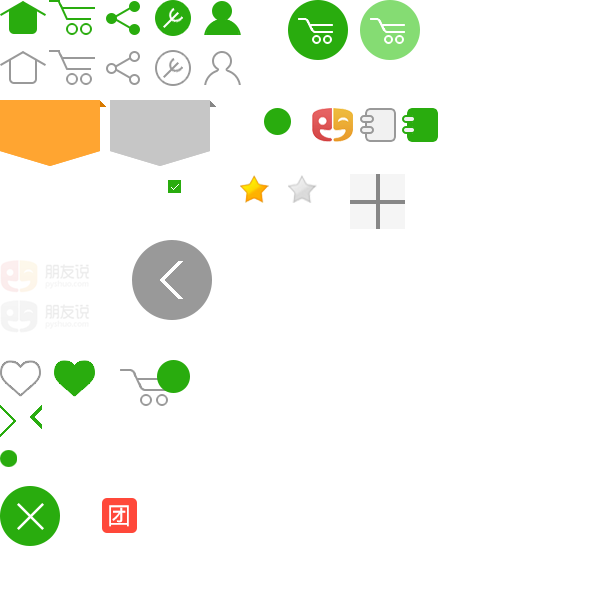
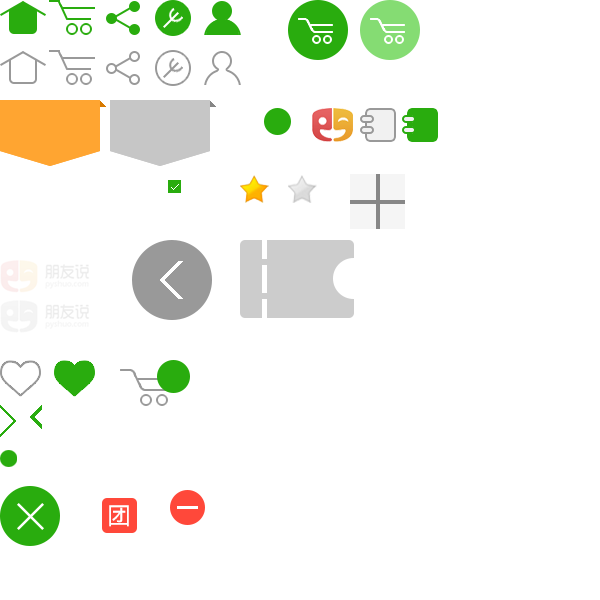
update mobile css add commen upload img delete css

Changed region(s): [[0.39, 0.39, 0.6, 0.54], [0.27, 0.81, 0.36, 0.9]]

diff --git a/app/View/Themed/3g/products/_view.html b/app/View/Themed/3g/products/_view.html
@@ -4,17 +4,17 @@
         <img src="{{$this->Html->assetUrl(medium_thumb_link($Product['Product']['coverimg']))}}" style="width:100%;"
              onerror="this.src='{{$this->Html->url('/img/nophoto.gif')}}'">
         {{/if}}
-        <h2 class="Content-title" id="item-detail-title" style="padding: 0 0.5em;margin-top: 15px;"><?php echo $Product['Product']['name']; ?>{{if $hasOfferBrandIds && array_key_exists($Product['Product']['brand_id'], $hasOfferBrandIds)}}
+        <h2 class="Content-title" id="item-detail-title" style="padding: 10px 0.5em;margin: 0px;background-color: #ffffff"><?php echo $Product['Product']['name']; ?>{{if $hasOfferBrandIds && array_key_exists($Product['Product']['brand_id'], $hasOfferBrandIds)}}
             <span class="brand-has-offer">有红包</span>
             {{/if}}</h2>
         {{if $Product['Product'][promote_name] }}
-        <p style="padding: 0 0.8em;margin: 0;"><?php echo $Product['Product']['promote_name']; ?></p>
+        <p style="padding: 0 0.8em;margin: 0;background-color: #ffffff"><?php echo $Product['Product']['promote_name']; ?></p>
         {{/if}}
         <ul class="p_details_price clearfix list-unstyled">
             <li class="fl price"><span>￥<font>{{$this->Number->precision($price, 2)}}</font></span><em>{{if $Product['Product']['original_price']}}¥{{$this->Number->precision($Product['Product']['original_price'], 2)}}{{/if}}</em></li>
             <li class="fr stat"></li>
         </ul>
-        <ul class="clearfix b_line list-unstyled" style="padding: 0.8em">
+        <ul class="clearfix b_line list-unstyled" style="padding: 0.8em;margin-top: 0.5em;background-color: #ffffff;border-top: 1px #DDDDDD solid;margin-bottom: 0;">
             <li>
                 <span class="gray mr12" style="float:left;">快递:</span>
 			<span style="display: block;overflow: hidden;">
@@ -86,7 +86,7 @@
         {{if $product_spec_map }}
         {{$product_spec_map}}
             {{if $specs_map }}
-                <p class="product_specs">
+                <p class="product_specs" style="padding: 0.8em;background-color: #ffffff;border-bottom: 1px #DDDDDD solid;margin-bottom: 0;">
                     <?php foreach($specs_map['choices'] as $label => $values) { ?>
                     <span class="spec_label">{{$label}}</span>:<?php foreach($values as $vaLabel){?><span item-label="{{$label}}" class="spec_item">{{$vaLabel}}</span><?php } ?><br/>
                     <?php } ?>
@@ -97,7 +97,7 @@
             {{/if}}
         {{/if}}
         {{if ($total_left > 0 || $total_left == -1) && $afford_for_curr_user }}
-        <div id="productinfo" class="clearfix voffset2" style="margin-top: 0;padding-left: 0.8em;">
+        <div id="productinfo" class="clearfix voffset2" style="margin-top: 0;padding: 0.8em;background-color: #ffffff;border-bottom: 1px #DDDDDD solid;">
             {{if $limit_per_user == 1}}
             <p>每人限购一份</p>
             <input id="input_pamount"  item-id="{{$Product['Product']['id']}}" size="3" value="1" class="form-control" name="shoppingnum" type="hidden" readonly="readonly">
@@ -241,7 +241,6 @@
 
 
 <?php
-
  if ($_GET['_pys_add_comment']) {
     $defTab = 'product-reviews';
  }elseif ($_GET['_pys_add_shichi_comment']) {
@@ -249,16 +248,32 @@
  }else {
  $defTab = 'product-description';
  }
+ if($is_product_has_shichi){
+    $liWidth=33.33;
+ }else{
+    $liWidth=50;
+ }
  ?>
-
-<div id="container-part1" class="container clearfix voffset" style="padding: 0;">
+<style>
+    #container-part1 ul.nav li a{
+        margin: 0;
+        border: 0;
+        border-right: 1px #DDDDDD solid;
+        color: #666666;
+        font-weight: bold;
+        border-radius: 0;
+    }
+    #container-part1 ul.nav li.active a{
+        color: #29AC0E;
+    }
+</style>
+<div id="container-part1" class="container clearfix voffset" style="padding: 0;background-color: #ffffff;border-top: 1px #DDDDDD solid;margin-top: 0;">
     <ul class="nav nav-tabs" role="tablist">
-        <li {{if $defTab == 'product-description'}}class="active"{{/if}}><a href="#product-description" role="tab" data-toggle="tab">{{__('ProductIntroduction')}}</a></li>
+        <li style="width: {{$liWidth}}%;text-align: center;float: left;margin-bottom:0;" {{if $defTab == 'product-description'}}class="active"{{/if}}><a href="#product-description" role="tab" data-toggle="tab">{{__('ProductIntroduction')}}</a></li>
         {{if $is_product_has_shichi}}
-        <li {{if $defTab == 'product-evaluation'}}class="active"{{/if}}><a href="#product-evaluation" role="tab" data-toggle="tab">{{__('试吃报告')}}</a></li>
+        <li style="width: {{$liWidth}}%;text-align: center;float: left;margin-bottom:0;" {{if $defTab == 'product-evaluation'}}class="active"{{/if}}><a href="#product-evaluation" role="tab" data-toggle="tab">{{__('试吃报告')}}</a></li>
         {{/if}}
-        <li {{if $defTab == 'product-reviews'}}class="active"{{/if}}><a href="#product-reviews" role="tab" data-toggle="tab">{{__('ProductReviews')}}</a></li>
-
+        <li style="width: {{$liWidth}}%;text-align: center;float: left;margin-bottom:0;" {{if $defTab == 'product-reviews'}}class="active"{{/if}}><a href="#product-reviews" role="tab" data-toggle="tab">{{__('ProductReviews')}}</a></li>
     </ul>
 
     <div class="tab-content voffset2" style="padding:  0.5em;margin-top: 0;">

diff --git a/webroot/css/layout_3g.css b/webroot/css/layout_3g.css
@@ -212,11 +212,11 @@ footer img{ width:4.625em; height:1.583em;}
     font-size: 1.167em;
     line-height: 2.2em;
     color: #666666;
-    margin-top: 0.6em;
+    margin-top: 0.5em;
     padding: 0.3em 0.8em 0.5em 0.8em;
     border-top: 1px #dddddd solid;
     border-bottom: 1px #dddddd solid;
-    background-color: #f8f8f8;
+    background-color: #ffffff;
 }
 /* New UI Home page */
 h3.items-tag { margin:0 0.833em 0.625em 0.833em; }
@@ -290,17 +290,17 @@ ul li{ list-style:none;}
 .classlist_v2 ul li a.back {display: block; width: 1.2em; height: 1.5em; background: url('/img/mobile/pyshuo_icon.png?xxz') no-repeat -1.5em -20.25em; background-size: 30em 30em; margin-top: 0.6em; margin-right: 0.7em; margin-left: 0.5em;}
 .classlist_v2 ul li.line {height: 3em;width: 1px;border-right: 1px #dddddd solid;margin-right: 1em;font-size:1em;}
 .classlist_good { margin-top:3em; margin-bottom:1em;}
-.classlist_good ul li{ float:left; width:50%; text-align:center; padding-top:0.5em; border-bottom:1px #dddddd solid; border-right: 1px #dddddd solid;}
+.classlist_good ul li{float:left; width:50%; text-align:center; margin-top:0.8em;}
 .classlist_good ul li.last { border-right: none;}
-.classlist_good ul li img{ text-align:center; width:8.8em; height:6.6em;}
-.classlist_good ul li .brand_name, .classlist_good ul li .item_name{ font-size:0.8em; color:#666666; text-align:left; font-weight:normal; padding:0.4em 0.833em 0 0.833em;}
-.classlist_good ul li .item_name { font-size:1em; padding-top:0.6em }
+.classlist_good ul li img{text-align:center; width:100%;}
+.classlist_good ul li .brand_name, .classlist_good ul li .item_name{ font-size:0.8em; color:#666666; text-align:left; font-weight:normal; padding:0.4em 0.8em 0 0.8em;}
+.classlist_good ul li .item_name{font-size:1em; padding-top:0.1em;}
 .classlist_good ul li .item_name span{ font-size:0.6em; padding:0.1em 0.2em; background-color:#29ac0e; color:#ffffff;}
-.classlist_good ul li dl{ padding:0.1em 0.833em 0.6em 0.833em;}
+.classlist_good ul li dl{padding:0.1em 0.8em 0.6em 0.8em; background-color:#ffffff;}
 .classlist_good ul li dl dt{ float:left;}
 .classlist_good ul li dl dt img{ width:2.25em; height:2.3em;}
 .classlist_good ul li .brand_name{ font-size:0.85em; color:#999999; font-weight:normal; display: block}
-.classlist_good ul li .listprice{ font-size:0.75em; color:#ff9000; font-weight:normal; display: block}
+.classlist_good ul li .listprice{font-size:0.75em; color:#ff9000; font-weight:normal; display:block; text-align:left; padding-left:0.5em;}
 .classlist_good ul li .brand_name{ padding-left:0.4em; padding-top:0.1em;}
 .classlist_good ul li .listprice .original{ font-size: 1em; color:#999999; text-decoration:line-through;}
 .classlist_good ul li .listprice span{ color:#ff9000; font-size:1.25em;}
@@ -359,13 +359,13 @@ ul li{ list-style:none;}
 .sales li.quota span{ display:block; float:left; font-size:1em; color:#29ac0e;}
 .sales li span .quota_btn{ padding:0.12em 0.375em; color:#ffffff; background-color:#29ac0e; font-size:0.833em; margin-right:0.5em;}
 .sales_c {color:#29ac0e;}
-.p_details_price {
-    font-size: 1em;
-    padding: 0 0.5em 0.5em 0.5em;
-    color: #c0c0c0;
-    border-bottom: 1px #dddddd solid;
-    background-color: #ffffff;
-    margin-bottom: 0;
+.p_details_price{
+    font-size:1em;
+    padding:0 0.5em 0.5em 0.5em;
+    color:#c0c0c0;
+    border-bottom:1px #dddddd solid;
+    background-color:#ffffff;
+    margin-bottom:0;
 }
 .p_details_price .price span{ color:#ffa200;}
 .p_details_price .price span font{ font-size:1.667em;}
@@ -486,19 +486,3 @@ a:hover, a:focus {
 .comment_bingbtn{ width:5.2em; display:block; text-decoration:none; font-size:0.9em; background-color:#ffffff; text-align:center; padding:0.2em 0; border:1px #dddddd solid; color:#999999;}
 .comment_nobingbtn{ width:5.2em; display:block; text-decoration:none; font-size:0.9em; background-color:#ffa531; text-align:center; padding:0.2em 0; border:1px #ffa531 solid; color:#ffffff;}
 .comment_tanchubg_layer {font-size:14px}
-
-.badge{
-    padding: 0 4px;
-    height: 1em;
-    line-height: 1em;
-    border-radius: 0.5em;
-    text-align: center;
-    color: #FFF;
-    font-family: Arial;
-    box-shadow: 1px 1px 1px rgba(0,0,0,0.3);
-    background: #ff483a;
-    position: absolute;
-    top: -10px;
-    right: -5px;
-    z-index: 3;
-}

diff --git a/app/View/Themed/3g/comments/add_comment.html b/app/View/Themed/3g/comments/add_comment.html
@@ -245,7 +245,6 @@
     (function ($) {
         $.fn.pyUpload = function (option) {
             var me = $(this);
-            //TODO auto add pic holder
             var defaultOption = {
                 uploadUrl: '/upload/upload',
                 name: 'py-custom-upload',
@@ -261,13 +260,24 @@
             //remove blank val
             $images = $.grep($images.split('|'), function(n) {return $.trim(n).length > 0;});
             $.each($images,function(index,item){
-                $($imageHolders[index]).attr('href',item).html('<img src="'+item+'"/>');
+                $($imageHolders[index]).attr('href',item).html('<img src="'+item+'"/><div class="comment_delete"></div>');
             });
             var $fileInput = $('input', me);
             $('a.comment_upload',me).each(function (index, item) {
                 //TODO  use custom function
                 $(item).on('click', function (e) {
                     e.preventDefault();
+                    var $me = $(this);
+                    //do delete image can't delete server image
+                    if($me.attr('href').indexOf('http')===0){
+                        var tmpUrl = $me.attr('href');
+                        $images = $.grep($images, function(n) {return n!=tmpUrl;});
+                        $me.html('<span></span>');
+                        $me.attr('href','');
+                        $data.val($images.join('|'));
+                        $parentForm.ajaxSubmit();
+                        return;
+                    }
                     $fileInput.attr('data-index', index);
                     if(config['isSubmit']){
                         $fileInput.trigger('click');
@@ -281,22 +291,15 @@
                     var index = $(this).attr('data-index');
                     var $imageHolder = $imageHolders[index];
                     var $delete_a = $($imageHolder);
-                    //TODO delete image
-                    if($delete_a.attr('href').indexOf('http')===0){
-                        var tmpUrl = $delete_a.attr('href');
-                        $images = $.grep($images, function(n) {return n!=tmpUrl;});
-                    }
                     me.parent().ajaxSubmit({
                         dataType: 'json',
-                        beforeSend: function () {
-                        },
-                        uploadProgress: function () {
-                        },
+                        beforeSend: function () {},
+                        uploadProgress: function () {},
                         success: function (data) {
                             if(!data['files'][0]['error']){
                                 var deleteUrl=data['files'][0]['deleteUrl'];
                                 var imageUrl = data['files'][0]['url'];
-                                $($imageHolder).html('<img src="'+imageUrl+'"/>');
+                                $($imageHolder).html('<img src="'+imageUrl+'"/><div class="comment_delete"></div>');
                                 $($delete_a).attr('href',imageUrl);
                                 $images.push(imageUrl);
                                 $data.val($images.join('|'));

diff --git a/app/View/Themed/3g/products/view.html b/app/View/Themed/3g/products/view.html
@@ -28,14 +28,14 @@
 <style>
     /*底部购买*/
     .bottom_bg{ height:5em; background-color:#f1f1f1; border-top:1px #dddddd solid; width:100%; font-size:0.8em; color:#666666; position:fixed; bottom:0; left:0;}
-    .bottom_bg li.love{ width:15%; text-align:center;}
-    .bottom_bg li.shopping{ width:17%; text-align:center;}
+    .bottom_bg li.love{width:0; text-align:center;}
+    .bottom_bg li.shopping{ width:15%; text-align:center;}
     .love_icon{ width:1.72em; height:1.5em; background:url('{{$this->Html->assetUrl("/img/mobilev1/pyshuo_icon.png")}}') 0 -15em no-repeat; background-size:25em 25em; display:block; margin:0 auto; margin-top:1.2em;}
     .love_visited{ width:1.708em; height:1.5em; background:url('{{$this->Html->assetUrl("/img/mobilev1/pyshuo_icon.png")}}') -2.25 -15em no-repeat; background-size:25em 25em;}
     .p_visited{ color:#29ac0e;}
     .shopping_icon{ width:3em; height:1.917em; background:url('{{$this->Html->assetUrl("/img/mobilev1/pyshuo_icon.png?xx")}}') -5em -15em no-repeat; background-size:25em 25em; display:block; margin:0 auto; margin-top:0.9em; text-decoration:none;}
     .shopping_count{ position:absolute; right:3px; top:2px; width:14px; text-align:center; color:#ffffff; font-size:1em;}
-    .btn_b{ width:100%; height:3em; font-size:1.25em; line-height:3em; display:block; text-align:center; color:#ffffff; text-decoration:none; margin-top:0.5em;}
+    .btn_b{width:100%; height:2.7em; font-size:1.4em; line-height:2.7em; display:block; text-align:center; color:#ffffff; text-decoration:none; margin-top:0.5em;}
     .pay_bg{ background-color:#ffa531;}
     .pay_bg:active{ background-color:#ed8600;}
     .shopping_bg{ background-color:#ff483a;}
@@ -45,19 +45,19 @@
     .cart_btn_soldout { background-color: #808080}
 </style>
 <div class="bottom_bg">
-    <ul class="clearfix list-unstyled">
+    <ul class="clearfix list-unstyled" style="padding: 0 0.8em;">
         <li class="love fl">
             <!--<a href="javascript:;" class="love_icon"></a>-->
             <p>&nbsp;</p>
         </li>
 
-        <li class="fl" style="width:34%;">
-            <div style="margin-right:3%;">
+        <li class="fl" style="width:42%;">
+            <div style="margin-right:4%;">
                 <a id="btn_quick_buy" item-id="{{$Product['Product']['id']}}" href="javascript:;" class="btn_b {{ (($total_left > 0 || $total_left == -1) && $afford_for_curr_user) ? 'pay_bg' : 'cart_btn_soldout'}} radius10">立即购买</a>
             </div>
         </li>
-        <li class="fl" style="width:34%;">
-            <div style="margin-left:3%;">
+        <li class="fl" style="width:42%;">
+            <div style="margin-left:4%;">
                 <a id="btn_add_cart" item-id="{{$Product['Product']['id']}}" href="javascript:;" class="btn_b {{ (($total_left > 0 || $total_left == -1) && $afford_for_curr_user) ? 'shopping_bg' : 'cart_btn_soldout'}} radius10">加入购物车</a>
             </div>
         </li>

diff --git a/app/View/Themed/3g/categories/tag.html b/app/View/Themed/3g/categories/tag.html
@@ -3,7 +3,7 @@
         margin-bottom: 0;
     }
 </style>
-<div class="container clearfix">
+<div class="container clearfix" style="padding: 0;">
     <div class="classlist">
         <a href="/">
         <ul class="clearfix list-unstyled">
@@ -12,24 +12,25 @@
         </ul>
         </a>
     </div>
-    <div class="classlist_good row">
+    <div class="classlist_good row" style="margin:0;margin-top:3em;">
         {{if $tag['banner']}}
         <img src="{{$this->Html->assetUrl($tag['banner'])}}" style="width:100%"/>
         {{/if}}
-        <ul class="clearfix list-unstyled">
+        <ul class="clearfix list-unstyled" style="padding-left:10px;">
 	<?PHP if($total>0){ ?>
 	    <?PHP foreach($data_list as $item) {
 	    $full = true;
 	    $i++;
 		$item['slug'] = $item['slug']?$item['slug']:$item['id'];
 	    ?>
-            <li class="{{if $i/2 == 1}}last{{/if}}"> <a href="{{product_link2($item)}}">
-                <img src="{{$this->Html->assetUrl(small_thumb_link($item['coverimg']))}}" border="0" />
+            <li class="{{if $i/2 == 1}}last{{/if}}">
+                <a href="{{product_link2($item)}}" style="display:block; background-color:#ffffff; margin-right:10px;">
+                <img src="{{$this->Html->assetUrl(small_thumb_link($item['coverimg']))}}" border="0" style="display:block; background-color:#ffffff; padding-bottom:0.5em;"/>
                 <div class="item_name">{{if $hasOfferBrandIds && array_key_exists($item['brand_id'], $hasOfferBrandIds)}}{{usubstr($item['name'],0, 7,'')}}<span>有红包</span>
                     {{else}}{{usubstr($item['name'],0, 9,'')}}
                     {{/if}}</div>
                 </a>
-                <dl class="clearfix">
+                <dl class="clearfix" style="margin-right: 10px;">
                     <dt>
                         <a href="{{$this->Html->url('/brands/'.date('Ymd',strtotime($brands[$item['brand_id']]['Brand']['created'])).'/'.$brands[$item['brand_id']]['Brand']['slug'].'.html')}}">
                         <img class="radius10" src="{{$this->Html->assetUrl(small_thumb_link($brands[$item['brand_id']]['Brand']['coverimg']))}}" border="0" />

diff --git a/app/View/Themed/3g/Layouts/default.html b/app/View/Themed/3g/Layouts/default.html
@@ -16,7 +16,7 @@
           content="{{if $seodescription}}{{$seodescription}}{{else}}{{$site[seodescription]}}{{/if}}"/>
     <link rel="apple-touch-icon" href="{{$this->Html->assetUrl('/img/logo_mini.png')}}" />
     <title>{{$pageTitle}}-{{$site['title']}}</title>
-    {{$this->Html->css(array('http://'.WX_HOST.'/css/bootstrap_2.css', 'layout_3g.css?ver26',));}}
+    {{$this->Html->css(array('http://'.WX_HOST.'/css/bootstrap_2.css', 'layout_3g.css?ver27',));}}
     <!--<script type="text/javascript" name="baidu-tc-cerfication" data-appid="5181580" src="http://apps.bdimg.com/cloudaapi/lightapp.js"></script>-->
 
     <style>
@@ -26,7 +26,7 @@
         .shopping_icon{ width:3em; height:1.9em; background:url('{{$this->Html->assetUrl("/img/mobilev1/pyshuo_icon.png?xx")}}') -5em -15em no-repeat; background-size:25em 25em; display:block; margin:0 auto; text-decoration:none;}
         .shopping_count{ position:absolute; right:3px; top:2px; width:14px; text-align:center; color:#ffffff; font-size:1em;}
     </style>
-    {{$this->Html->css(array('mobile-view.css?v=1',))}}
+    {{$this->Html->css(array('mobile-view.css?v=1.1',))}}
     {{$this->Html->script(array(
     'http://libs.baidu.com/jquery/1.9.1/jquery.min.js',
     'jquery/jquery.cookie.js','i18n/language-zh-CN.js'));}}
@@ -73,7 +73,7 @@
         请开启您浏览器的JavaScript选项
     </noscript>
 </head>
-<body>
+<body style="background-color: #F5F5F5">
 {{if !$hideNav }}
 <div id="div_navbar" class="navbar-fixed-bottom navbar-v1" style="margin-bottom:0; margin-right: 0; z-index: 10">
     <div class="container">

diff --git a/webroot/css/mobile-view.css b/webroot/css/mobile-view.css
@@ -116,9 +116,10 @@ ul li{ list-style:none;}
     margin: 0.8em;
     z-index: 2;
 }
-.comment_upload{ border:1px #dddddd solid; text-align:center; display:block; background-color:#f5f5f5; float:left; margin-top:1em; margin-right:0.7em;}
+.comment_upload{ border:1px #dddddd solid; text-align:center; display:block; background-color:#f5f5f5; float:left; margin-top:1em; margin-right:0.7em; position:relative;}
 .comment_upload span{ display:block; width:2.292em; margin:1em;height:2.292em; background:url(/img/mobile/pyshuo_icon.png) -14.583em -7.25em no-repeat; background-size:25em 25em;}
 .comment_upload img{width: 62px;height: 62px}
+.comment_delete{ width:1.48em; height:1.47em; background:url(/img/mobile/pyshuo_icon.png) -7.083em -20.417em; background-size:25em 25em; position:absolute; right:-0.5em; top:-0.5em;}
 .comment_submit{ height:2.8em; width:100%; display:block; background-color:#ffa531; line-height:2.8em; text-align:center; color:#ffffff; font-size:1.25em; margin-top:1.5em; text-decoration:none; position:fixed; bottom:0; left:0;}
 .comment_submit:hover{color: #ffffff;text-decoration: none}
 .comment_submit:focus{color: #ffffff;text-decoration: none}

diff --git a/app/View/Themed/3g/apple201410/award.html b/app/View/Themed/3g/apple201410/award.html
@@ -227,7 +227,7 @@
     <div class="section">
         <div class="ranking" style="background-image: url({{$this->Html->assetUrl('http://51daifan-images.stor.sinaapp.com/as/btc/ranking/bg.jpg')}}); min-height: 100%">
             <img src="{{$this->Html->assetUrl('http://51daifan-images.stor.sinaapp.com/as/btc/ranking/title.png')}}" />
-            <div class="ranking_notice radius10">我的排名：<span id="top_list_mine"></span><span style="padding-left: 2em">活动已结束，前20名请拨打<a href="tel:13693655401">13693655401</a>领取奖品</span><!--你当前摇到了10个,还没有进入排名,要多多努力哦!--></div>
+            <div class="ranking_notice radius10">我的排名：<span id="top_list_mine"></span><span style="padding-left: 2em">活动已结束，前20名请拨打<a href="tel:01056245991">010-56245991</a>领取奖品</span><!--你当前摇到了10个,还没有进入排名,要多多努力哦!--></div>
             <div style="margin:0 1.2em; height: 100%; overflow-y: hidden; overflow-x:hidden;">
                 <ul id="top_list_contents_left"></ul>
                 <ul id="top_list_contents_right"></ul>

diff --git a/app/View/Themed/3g/categories/_masonry_photo.html b/app/View/Themed/3g/categories/_masonry_photo.html
@@ -1,13 +1,14 @@
-<div class="col-xs-6" style="height:150px;overflow:hidden;">
-	<div style="border: 1px solid #DDDDDD;">
+<div class="col-xs-6" style="overflow:hidden;padding: 0;">
+	<div style="border: 1px solid #DDDDDD; margin-right: 10px;">
      	<a href="<?php echo '/'.$category_control_name.'/'.date('Ymd',strtotime($item['created'])).'/'.$item['slug'].'.html'; ?>" class="thumbnail-noclick" style="margin-bottom: 5px;" id="item-{{$item['id']}}" item-id="{{$item['id']}}" item-name="{{$item['name']}}" item-price="{{$item['price']}}">
          {{eval echo $this->Html->image($item['coverimg'], 
 			array(
 			'alt' => $item['title'],'title' => $item['name'],
 			'onerror'=>'this.src="/img/products_nophoto.jpg";',
+			'style'=>'width:100%;max-width:none;max-height:none;'
 			)); }}
 	     </a>
-	     <div class="text-left">
+	     <div class="text-left" style="line-height: 30px;text-align: center;">
 	     	{{eval echo $this->Html->link(usubstr($item['name'],0,10), 
 				'/'.$category_control_name.'/'.date('Ymd',strtotime($item['created'])).'/'.$item['slug'].'.html',
 				array('title'=>$item['title'])); 

diff --git a/app/View/Themed/3g/Elements/footer.html b/app/View/Themed/3g/Elements/footer.html
@@ -3,7 +3,7 @@
         <img src="{{$this->Html->assetUrl('/img/logo_footer.jpg')}}" border="0" /><br /><br />如果觉得我们不错,点右上角分享按钮"…"分享给朋友。
         <br /><br />[朋友说]是朋友同事间互相分享自家特产的平台。<br />我们创业团队来自于腾讯、搜狐和去哪儿。
         <br/>客服微信号：<a href="javascript:;">pyshuo2015</a>
-        <br />商务电话: <a href="tel:18911911240">189-1191-1240</a><br />客服电话: <a href="tel:13693655401">136-9365-5401</a><br/>官方QQ群:<a href="javascript:;">374179511</a>
+        <br />商务电话: <a href="tel:18911911240">189-1191-1240</a><br />客服电话: <a href="tel:01056245991">010-56245991</a><br/>官方QQ群:<a href="javascript:;">374179511</a>
 </footer>
 {{/if}}
 
